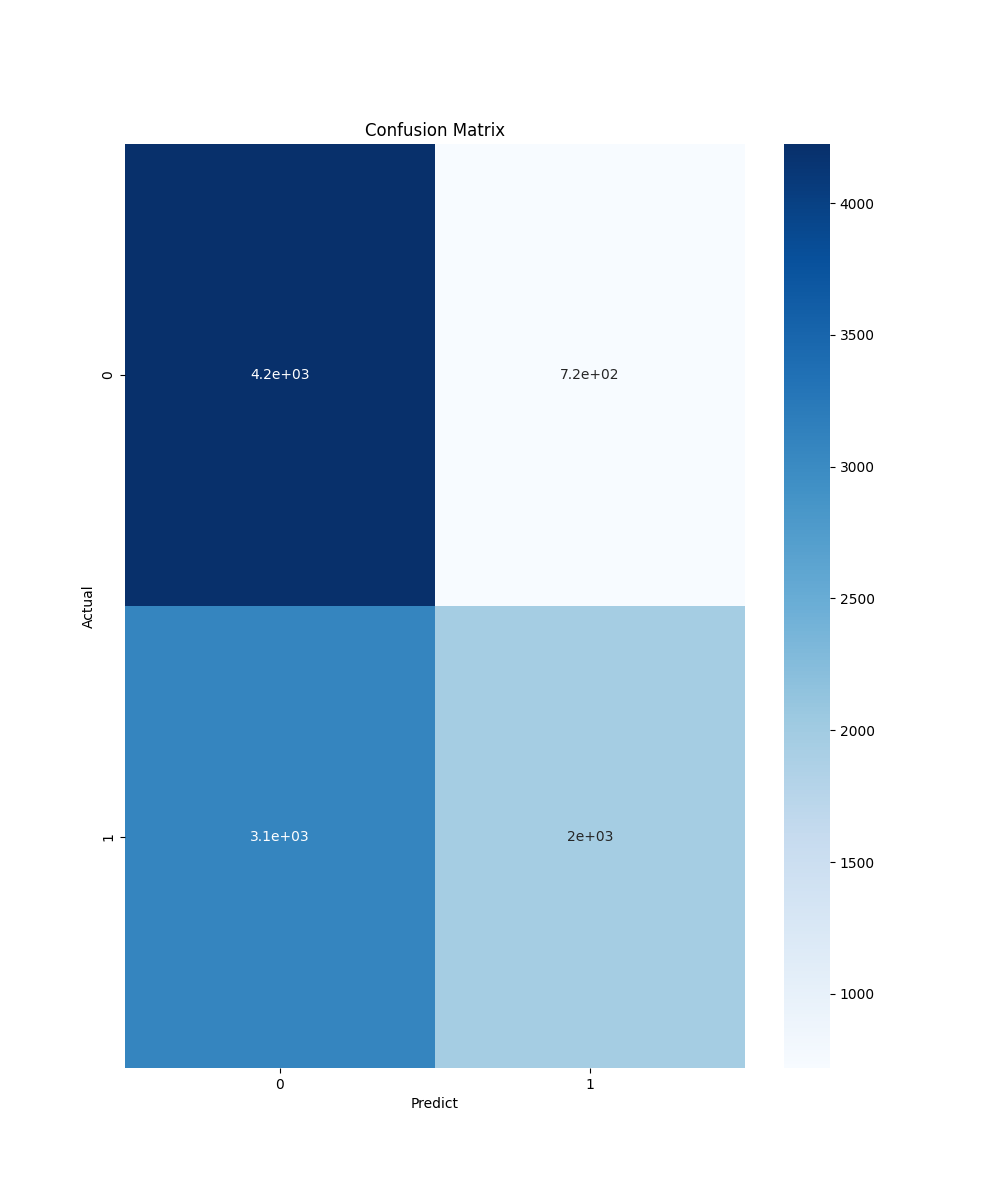
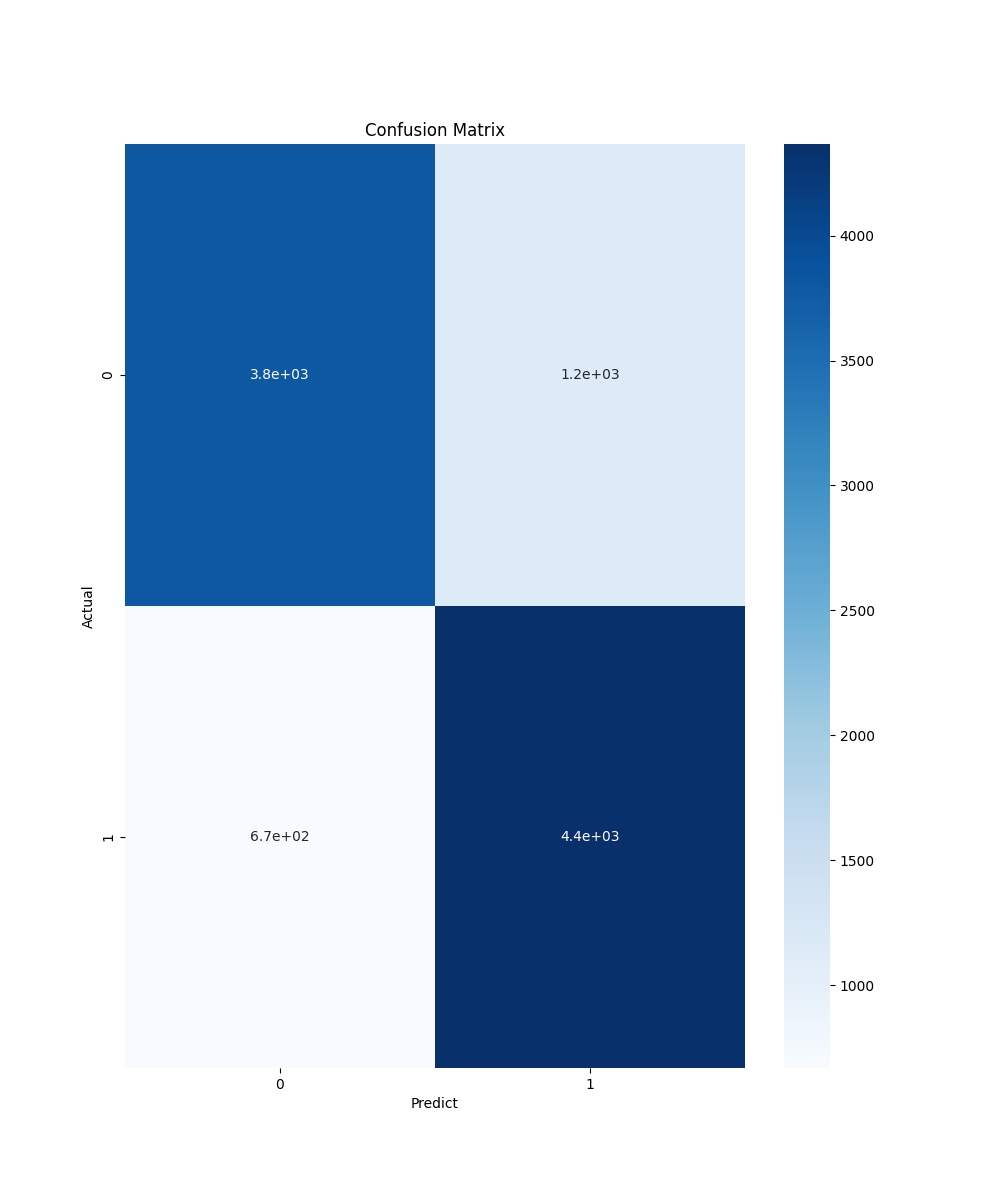
After getting Best Model

diff --git a/src/model_evaluation.py b/src/model_evaluation.py
@@ -12,6 +12,7 @@ import pickle
 import json 
 from sklearn.metrics import accuracy_score, precision_score, recall_score,f1_score,confusion_matrix,classification_report
 import re
+from pathlib import Path
 import pickle
 import dagshub
 import dvclive 
@@ -86,8 +87,9 @@ def load_model(data_url : str) -> pd.DataFrame:
         raise
 
 
-def model_evaluation(model, X_test: np.ndarray, y_test: np.ndarray):
+def model_evaluation(model, X_test: np.ndarray, y_test: np.ndarray,model_path):
     try:
+        model_name = model_path.parent.name
         y_pred = model.predict(X_test)
         y_pred_prob = model.predict_proba(X_test)[:,1]
         accuracy = accuracy_score(y_test,y_pred)
@@ -96,7 +98,9 @@ def model_evaluation(model, X_test: np.ndarray, y_test: np.ndarray):
         f1score = f1_score(y_test,y_pred)
         Confusion_matrix = confusion_matrix(y_test,y_pred)
         Classification_report =classification_report(y_test,y_pred)
-        metrics_dict ={
+        if accuracy >= 0.80:
+            metrics_dict ={
+            "Model": model_name,
             "accuracy": accuracy,
             "precision": precision,
             "recall" : recall,
@@ -140,11 +144,18 @@ def main():
         test_data = load_dataset('./Feature_Dataset_3/Feature/test_tfidf.csv')
         X_test = test_data.iloc[:,:-1].values
         y_test = test_data.iloc[:,-1].values
-        metrics_dict,Confusion_matrix,Classification_report = model_evaluation(model,X_test,y_test)
+        for model_path in Path("./models").rglob("*.pkl"):
+            model = load_model(model_path)
+        metrics_dict,Confusion_matrix,Classification_report = model_evaluation(model,X_test,y_test,model_path)
+        os.makedirs("report", exist_ok=True)
+        savemetrics(metrics_dict,"./report/BestModel.json")
+        model_name = metrics_dict["Model"]
         with mlflow.start_run():
-            mlflow.log_params(params['model_building']['AdaBoostClassifier'])
+            mlflow.log_param("Model", model_name)
+            mlflow.log_params(params["model_building"][model_name])
             for name, metrics in metrics_dict.items():
-                mlflow.log_metric(name, metrics)
+                if  name != 'Model':
+                    mlflow.log_metric(name, metrics)
             cm = Confusion_matrix
             plt.figure(figsize=(10,12))
             sns.heatmap(cm, annot=True, cmap='Blues')
@@ -160,8 +171,7 @@ def main():
             mlflow.log_artifact("classification_report.txt")
             print("Confusion matrix is Created")
             mlflow.log_artifact(__file__)
-        os.makedirs("report", exist_ok=True)
-        savemetrics(metrics_dict,"./report/AdaBoostClassifier.json")
+        
         with Live(save_dvc_exp=True) as live:
             for name,metrics in metrics_dict.items():
                 live.log_metric(name,metrics)